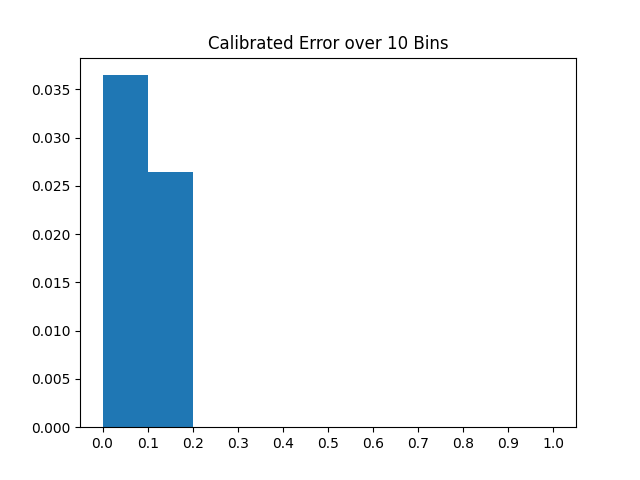
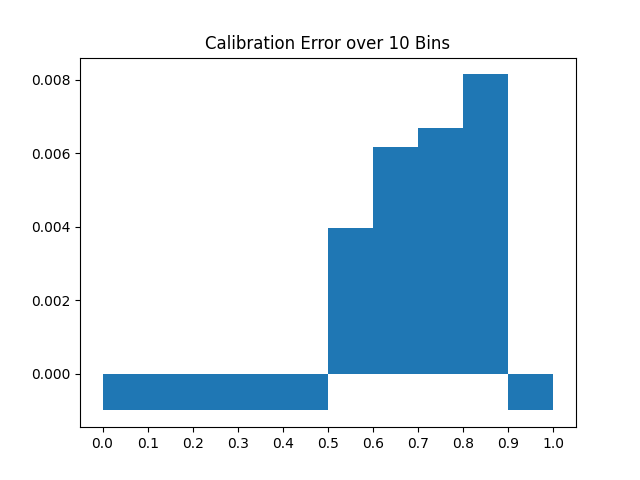
debug ce aggregation error (Tested)

diff --git a/metrics.py b/metrics.py
@@ -20,9 +20,9 @@ def get_ece(ce_b, batch_size: int):
     # sum the absolute of product
 
     # if CE is the initialized one (all zeros), return negative value to indicate nan.
-    if all(ce_b[:, 0]) == 0:
+    if sum(ce_b[:, 0]) == 0:
         return torch.tensor(-0.1)
-    ece = sum(ce_b[:, 0].nan_to_num(0).abs()) / batch_size
+    ece = sum(ce_b[:, 0].abs()) / batch_size
     return ece
 
 
@@ -76,7 +76,7 @@ def get_ce_per_bucket(b: int, b_by_conf, y_conf_1d, y_pred_true) -> tuple[torch.
     indices_b = (b_by_conf == b).int()
     bucket_size = sum(indices_b)
     if bucket_size == 0:
-        return torch.tensor(torch.nan), torch.tensor(1)
+        return torch.tensor(0), torch.tensor(0)
     # sum of predicted confidence under bucket b
     y_conf_b = torch.sum(torch.mul(y_conf_1d, indices_b))
     # number of correctly predicted samples under bucket b
@@ -154,7 +154,7 @@ def get_accuracy(y_pred_1d: torch.Tensor, y_true_1d: torch.Tensor) -> torch.Tens
 
 def plot_ce(ce, save_path: Path, bin_size: torch.Tensor = torch.tensor(c.k), batch_size: int = c.batch_size_test):
     assert len(ce) == bin_size
-    ce = (ce / batch_size).nan_to_num(-0.1)
+    ce = ce.detach().clone().nan_to_num(-0.1) / batch_size
 
     bin_size = bin_size.to("cpu")
     boundaries = get_boundaries(bin_size)

diff --git a/testing/test_metrics.py b/testing/test_metrics.py
@@ -111,23 +111,20 @@ def test_agg_ce():
     ece_agg = get_ece(ce_agg, b1+b2)
 
     ce = get_ce(ce)
-    ce_1 = get_ce(ce_1)
-    ce_2 = get_ce(ce_2)
-    ce_agg = (ce_1 + ce_2)
+    ce_agg = get_ce(ce_agg)
 
     plot_ce(ce, batch_size=b, save_path="%s/ce_MNIST_agg.png" % c.test_output_folder)
-    plot_ce(ce_1, batch_size=b1, save_path="%s/ce_MNIST_1.png" % c.test_output_folder)
-    plot_ce(ce_1, batch_size=b2, save_path="%s/ce_MNIST_2.png" % c.test_output_folder)
+    plot_ce(get_ce(ce_1), batch_size=b1, save_path="%s/ce_MNIST_1.png" % c.test_output_folder)
+    plot_ce(get_ce(ce_2), batch_size=b2, save_path="%s/ce_MNIST_2.png" % c.test_output_folder)
 
-
-    assert all(torch.isclose(ce, ce_agg))
+    assert all(torch.isclose(ce.nan_to_num(0), ce_agg.nan_to_num(0)))
     assert ece.isclose(ece_agg)
 
 
 if __name__ == "__main__":
-    # test_agg_ce()
-    # test_get_y_conf_1d()
-    # test_get_y_pred_true()
-    # test_cm()
+    test_agg_ce()
+    test_get_y_conf_1d()
+    test_get_y_pred_true()
+    test_cm()
     test_ece_mce()
 
